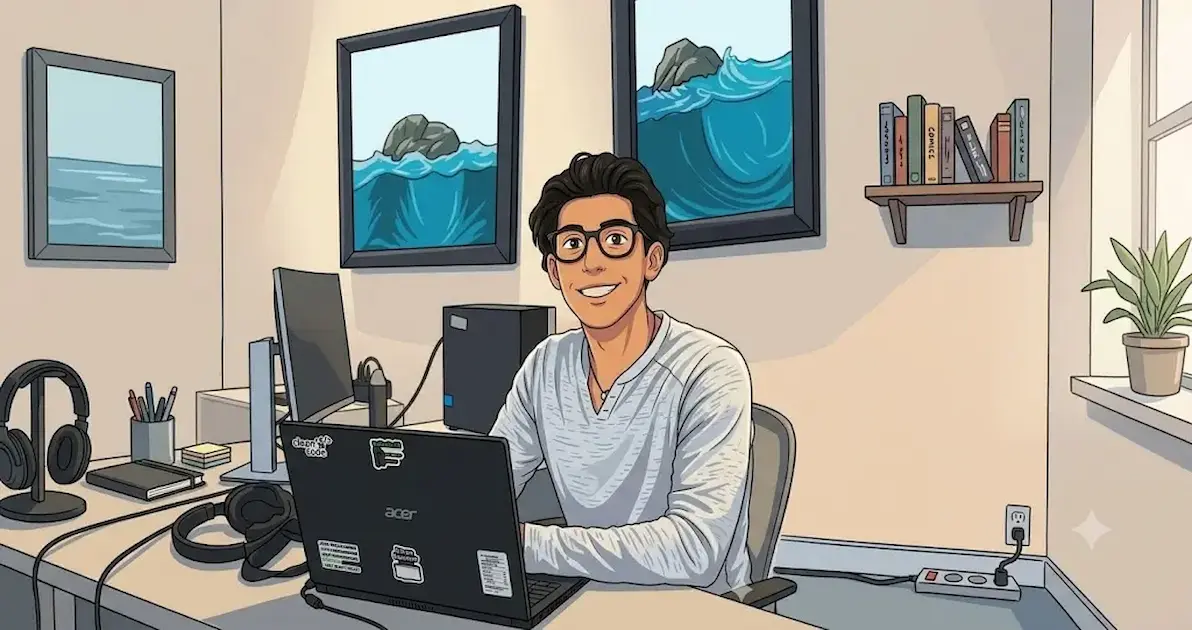
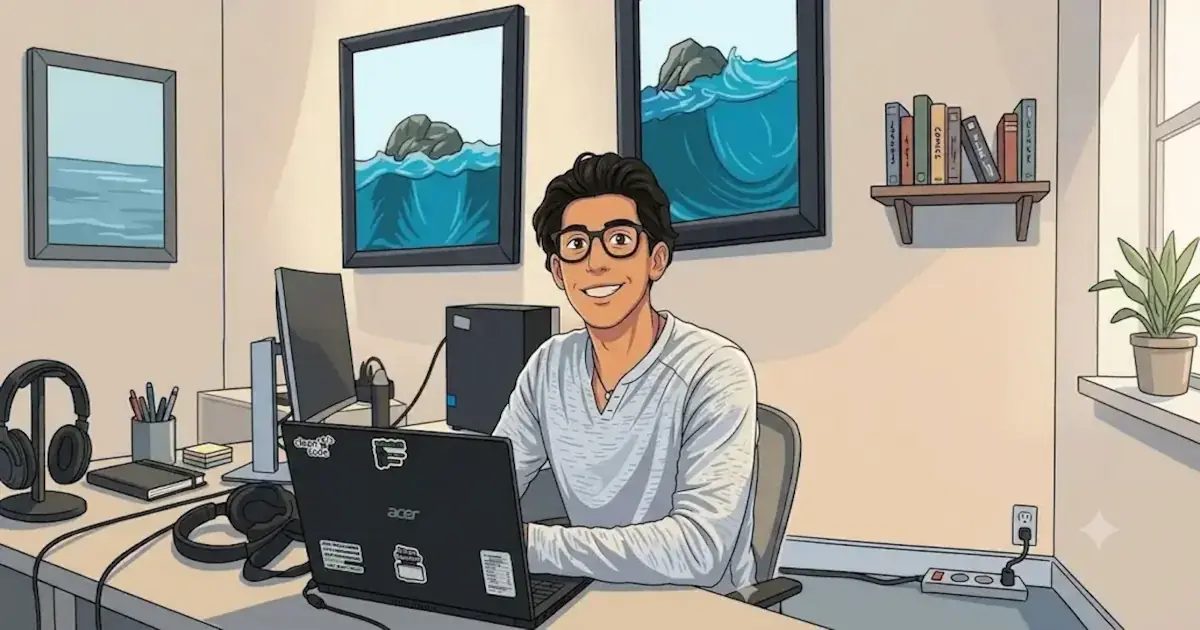
Resize mi-skin

diff --git a/index.html b/index.html
@@ -51,7 +51,10 @@
     />
     <meta property="og:locale" content="es_ES" />
     <meta property="og:locale:alternate" content="en_US" />
-    <meta property="og:image" content="https://viticomc-porftolio.vercel.app/my-skin-1200x630.webp" />
+    <meta
+      property="og:image"
+      content="https://viticomc-porftolio.vercel.app/my-skin-1200x630.webp"
+    />
     <meta property="og:image:alt" content="Avatar de Victor" />
     <meta property="og:image:width" content="1192" />
     <meta property="og:image:height" content="630" />
@@ -64,7 +67,10 @@
       name="twitter:description"
       content="Portafolio de Victor con proyectos frontend modernos construidos con React, Next.js y TypeScript."
     />
-    <meta name="twitter:image" content="https://viticomc-porftolio.vercel.app/my-skin-1200x630.webp" />
+    <meta
+      name="twitter:image"
+      content="https://viticomc-porftolio.vercel.app/my-skin-1200x630.webp"
+    />
     <meta name="twitter:site" content="@victor_dev" />
     <meta name="twitter:creator" content="@victor_dev" />
 
@@ -111,7 +117,7 @@
   </head>
   <body>
     <div id="root"></div>
-    <h1 class="sr-only" style="position:absolute;width:1px;height:1px;padding:0;margin:-1px;overflow:hidden;clip:rect(0,0,0,0);white-space:nowrap;border:0">Victor | Frontend Developer Portfolio</h1>
+    <!-- <h1 class="sr-only" style="position:absolute;width:1px;height:1px;padding:0;margin:-1px;overflow:hidden;clip:rect(0,0,0,0);white-space:nowrap;border:0">Victor | Frontend Developer Portfolio</h1> -->
     <script type="module" src="/src/main.tsx"></script>
   </body>
 </html>
